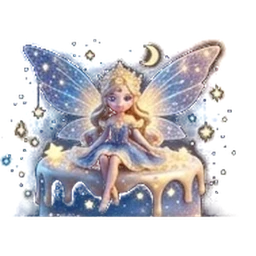
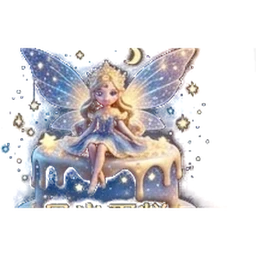
甜點妖精重新裁切，往下多留一點
Claude-Session: https://claude.ai/code/session_014BhPeNrpvZrWQU4v9wXcG7

diff --git a/fun.js b/fun.js
@@ -197,7 +197,7 @@
 
   function monsterIcon(key, big = false) {
     const m = ALL_MONS().find(x => x[0] === key);
-    if (MONSTER_IMG.has(key)) return `<img class="fn-mon-img ${big ? "big" : ""}" src="${IMG}${key}.webp" alt="">`;
+    if (MONSTER_IMG.has(key)) return `<img class="fn-mon-img ${big ? "big" : ""}" src="${IMG}${key}.webp?v=2" alt="">`;
     return `<span class="fn-mon-emo ${big ? "big" : ""}">${m ? m[2] : "❔"}</span>`;
   }
 

diff --git a/index.html b/index.html
@@ -7298,7 +7298,7 @@
 <script src="widget.js?v=20261030c"></script>
 <script src="goals.js?v=20261030a"></script>
 <script src="rpg.js?v=20261105e"></script>
-<script src="fun.js?v=20261107b"></script>
+<script src="fun.js?v=20261107c"></script>
 <script src="team.js?v=20261023d"></script>
 <script src="events.js?v=20261105e"></script>
 <script src="arena.js?v=20261105c"></script>
